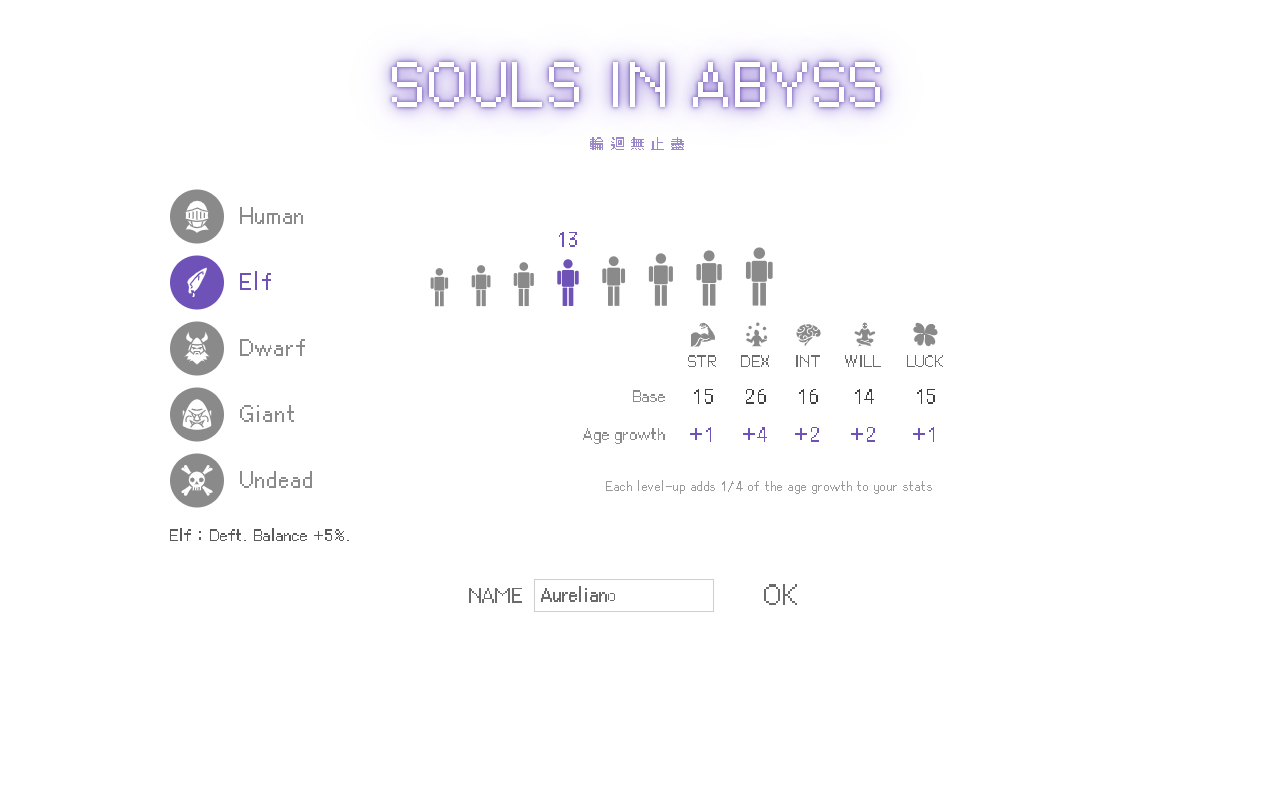
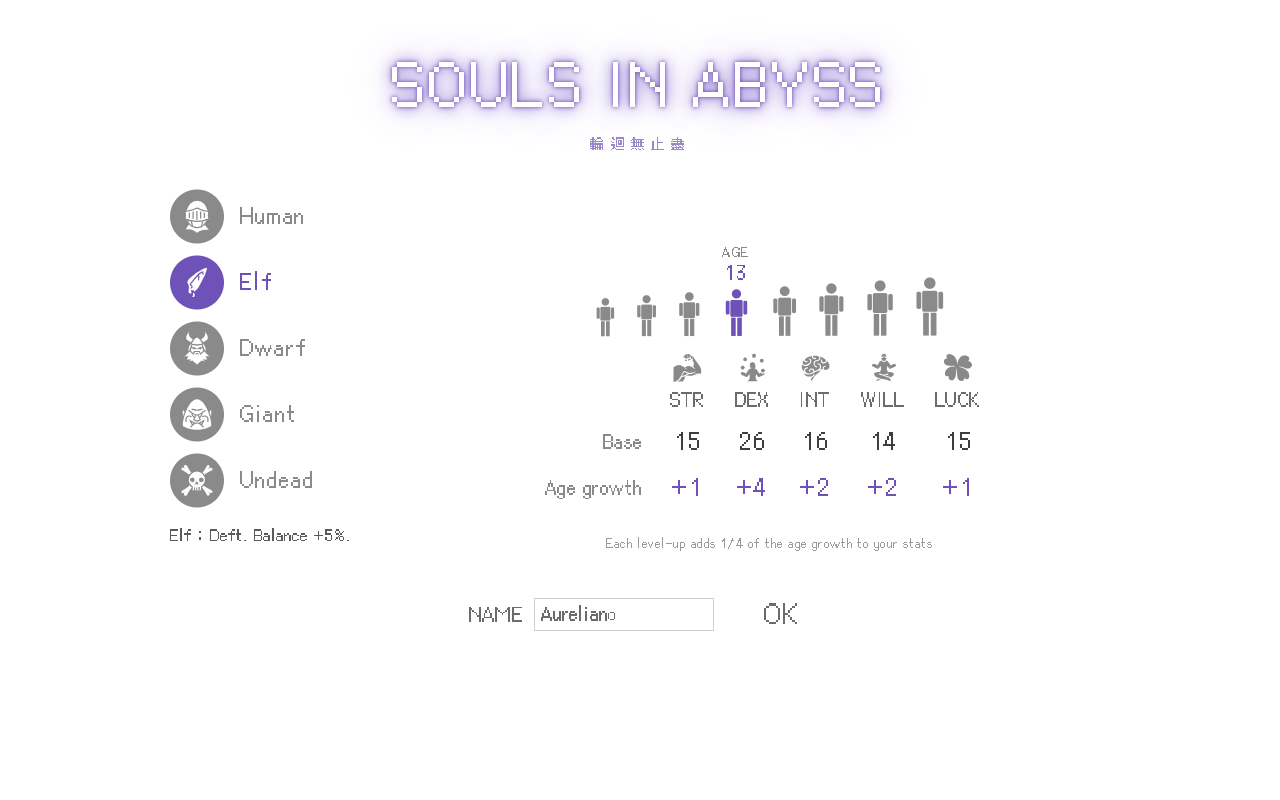
Souls in Abyss: wider, larger stat table; age label above the chosen figure
Claude-Session: https://claude.ai/code/session_01SWmRBBc1AVzcmCnX8pZTyt

diff --git a/site/souls-in-abyss/assets/index-8202bbc0.css b/site/souls-in-abyss/assets/index-8202bbc0.css
@@ -1,0 +1,1 @@
+@font-face{font-family:Cubic11;src:url(./Cubic_11-d28e9284.woff2) format("woff2");font-display:swap}:root{--bg: #e6e6e6;--box: #ffffff;--line: #cfcfcf;--ink: #555555;--lbl: #3e3e3e;--dim: #9a9a9a;--gold: #e8b33d;--accent: #6e52b8;--accent-soft: #f1ecfa;--glow1: #5b3fa8;--glow2: #8467cf;--glow3: #b6a3e6;--glow4: #e2daf6;--orange: #e8933d;--red: #a8322d;--blue: #2d6ea8;--up: #3fa34d;--down: #d43d3d;--warn: #e0791a;color-scheme:light}*{box-sizing:border-box}html,body{margin:0;height:100%;background:var(--bg);color:var(--ink);font:16px/1.5 Cubic11,PingFang TC,Noto Sans TC,sans-serif;-webkit-font-smoothing:none;font-smooth:never;text-rendering:optimizeSpeed}button,input,select{font:inherit;color:inherit}button{background:#f2f2f2;border:1px solid var(--line);padding:3px 10px;cursor:pointer;white-space:nowrap}button:hover:not(:disabled){background:var(--accent-soft);border-color:var(--accent)}button:disabled{opacity:.45;cursor:default}button.ghost{background:transparent}button.big{font-size:22px;padding:6px 26px}button.link{background:none;border:0;color:var(--ink);font-size:22px}button.link:hover{color:var(--accent);background:none}select,input{background:#fff;border:1px solid var(--line);padding:2px 6px}.dim{color:var(--dim)}.up{color:var(--up)}.down{color:var(--down)}.warn{color:var(--warn)}.small{font-size:13px}h3{margin:0 0 6px;font-weight:400;font-size:22px;color:var(--lbl)}small{font-size:13px}.game{display:grid;gap:8px;padding:8px;height:100vh;max-width:1400px;margin:0 auto;grid-template-columns:1.3fr .78fr .85fr;grid-template-rows:auto auto 1fr auto;grid-template-areas:"sheet monster side" "sheet pet     side" "log   att     side" "log   loot    side"}.box{background:var(--box);border:1px solid var(--line);padding:10px 14px;min-width:0;min-height:0}.sheet{grid-area:sheet;display:grid;grid-template-columns:1.15fr 1fr 1fr;gap:0 14px;align-content:start}.monster{grid-area:monster}.petbox{grid-area:pet}.log{grid-area:log}.att{grid-area:att;overflow-y:auto}.loot{grid-area:loot}.side{grid-area:side;display:flex;flex-direction:column;padding:8px 10px}.kv{display:flex;align-items:center;gap:10px;min-height:26px}.kv .lbl{color:var(--lbl);min-width:48px}.kv>span:last-child:not(.lbl){margin-left:auto}.col .kv>span:not(.lbl):not(.dim){margin-left:0}.col .kv .lbl{min-width:58px}.val.stat{color:var(--orange)}.val.boost{color:var(--up)}.line{flex:1;height:3px;background:#eee;position:relative}.line>div{height:100%;transition:width .12s linear}.line .red{background:var(--red)}.line .purple{background:#8e3fd1}.line .blue{background:var(--blue)}.line .grey{background:#9a9a9a}.mhead{margin-bottom:4px;white-space:nowrap;overflow:hidden;text-overflow:ellipsis}.mhead .lbl{color:var(--lbl);margin-right:6px}.mhead b{font-weight:400;margin-right:6px}.stage{margin:4px 0 6px}.scene{width:100%;display:block;image-rendering:pixelated;aspect-ratio:320 / 120}.petname{color:#c24f8c}.hearts{color:#e05a8a;letter-spacing:1px;font-size:13px}.log{overflow-y:auto;font-size:15px;line-height:1.55}.log p{margin:0}.log .ts{color:var(--dim);margin-right:2px}.log .num,.log .num.big{color:var(--down)}.log .num.crit{font-size:20px}.log .xp{color:var(--blue)}.log .gold{color:var(--gold)}.log .ap,.log .good,.log p.bad{color:var(--down)}.log .skill{color:#7a3dbf}.log .pet{color:#c24f8c}.log .title{color:var(--gold)}.log p.fate{color:#7a68b8}.log p.pet{color:#c24f8c}.loot .kv{min-height:22px}.loot .gold{color:var(--gold)}.loot .xp{color:var(--blue)}.nav{display:grid;grid-template-columns:repeat(8,1fr);gap:4px}.ico{border:0;background:none;padding:0;display:grid;place-items:center}.ico span{width:38px;height:38px;border-radius:50%;background:#6b6b6b;color:#fff;display:grid;place-items:center;font-size:17px}.ico.on span{background:var(--accent);box-shadow:0 0 0 3px #fff,0 0 0 4px var(--accent)}.ico:hover:not(.on) span{background:#8a8a8a}.ico:hover{background:none}.vtitle{font-size:22px;color:var(--lbl);margin:8px 2px 4px;border-bottom:1px solid var(--line)}.view{flex:1;overflow-y:auto;padding-right:4px}.item{display:flex;align-items:center;gap:10px;padding:7px 8px;margin:5px 0;border:1px solid #e3e3e3;background:#fafafa}.item.here{border-color:var(--accent);background:var(--accent-soft)}.item.faded{opacity:.55}.item .grow{flex:1;min-width:0}.item .acts{display:flex;align-items:center;gap:6px;flex-wrap:wrap;justify-content:flex-end}.iname{color:var(--lbl)}.iname .wt{display:inline-block;font-size:13px;padding:0 4px;margin-right:5px;background:#ececec;color:var(--ink)}.istat{font-size:13px;color:#777}.lore{margin:4px 0 0;font-size:13px;color:var(--dim)}.swatch{width:24px;height:24px;flex:none}.dot{width:24px;height:24px;border-radius:50%;flex:none;display:grid;place-items:center}.dot.q{background:#ddd;color:#fff}.row{display:flex;gap:8px;align-items:center;flex-wrap:wrap}.between{justify-content:space-between;margin:8px 0 2px}.doll{width:100%;max-width:260px;display:block;margin:0 auto}.doll .fig{fill:#7a7a7a}.doll .links line{stroke:#7a7a7a;stroke-width:1.5}.doll .joint{fill:#fff;stroke:#7a7a7a;stroke-width:1.5}.doll .slot{cursor:pointer}.doll .slot circle{fill:#7a7a7a;stroke-width:3}.doll .slot.full circle{fill:#5a5a5a}.doll .slot.on circle{fill:var(--accent)}.doll .slot text{fill:#fff;font:13px Cubic11,monospace;text-anchor:middle;pointer-events:none}.stabs{display:grid;grid-template-columns:repeat(3,1fr);border-bottom:1px solid var(--line)}.stab{border:0;background:none;font-size:17px;padding:4px 0;color:var(--lbl)}.stab.on{color:var(--blue);border:1px solid var(--line);border-bottom-color:#fff;margin-bottom:-1px;background:#fff}.skill{display:flex;align-items:center;gap:10px;padding:8px 10px;margin:4px 0;background:#6b6b6b;color:#fff}.skill.can{background:var(--accent)}.skill .sico{width:34px;height:34px;border-radius:50%;background:#fff;color:#6b6b6b;display:grid;place-items:center;flex:none}.skill.can .sico{color:var(--accent)}.skill .sname{font-size:18px}.skill .istat{color:#ffffffd9}.skill .up-btn{flex:none;background:#fff;color:#6b6b6b;border:0;border-radius:50%;width:34px;height:34px;padding:0;display:grid;place-items:center;line-height:1;font-size:13px}.skill .up-btn small{font-size:11px}.skill.can .up-btn{color:var(--accent)}.gi{width:100%;height:100%;fill:currentColor;display:block}.gi.sm{width:14px;height:14px;display:inline-block;vertical-align:-2px;margin-right:4px;opacity:.75}.ico span .gi{width:24px;height:24px}.title,.create{min-height:100vh;background:#fff;display:flex;flex-direction:column;align-items:center;padding:20px}.title{justify-content:center;gap:28px}.create{gap:18px;padding-top:24px}.banner{text-align:center;padding:18px 60px}.glow{margin:0;font-weight:400;font-size:clamp(44px,9vw,104px);line-height:1.5;color:#fff;letter-spacing:.03em;text-shadow:0 0 4px var(--glow1),0 0 14px var(--glow2),0 0 30px var(--glow3),0 0 60px var(--glow4)}.glow.cjk,.subtitle.cjk{line-height:1.25}.banner.small .glow{font-size:clamp(32px,5.5vw,60px)}.subtitle{color:#9a88c8;letter-spacing:.35em;margin-top:4px;font-size:18px;line-height:1.6}.banner.small .subtitle{font-size:14px}.intro{min-height:100vh;background:#fff;display:flex;flex-direction:column;align-items:center;justify-content:center;gap:18px;cursor:pointer;outline:none;animation:introOut 1.2s ease-in 4.6s forwards}.introline{margin:0;font-size:clamp(20px,3.2vw,30px);color:#5a4f78;letter-spacing:.12em;text-align:center;opacity:0;animation:introIn 1.4s ease-out var(--d) forwards}@keyframes introIn{0%{opacity:0;transform:translateY(6px)}to{opacity:1;transform:none}}@keyframes introOut{to{opacity:0}}@media (prefers-reduced-motion: reduce){.introline{animation-duration:.01s}.intro{animation-delay:2.5s;animation-duration:.3s}}button.play{font-size:28px;color:#6b6b6b;letter-spacing:.04em}button.play:hover{color:var(--accent)}.picker{display:grid;grid-template-columns:220px 1fr;gap:40px;width:100%;max-width:940px;align-items:start}.rlist{display:flex;flex-direction:column;gap:12px}.rrow{display:flex;align-items:center;gap:16px;background:none;border:0;padding:0;font-size:22px;text-align:left;color:#8a8a8a}.rrow .rico{width:54px;height:54px;border-radius:50%;background:#8a8a8a;color:#fff;padding:10px;flex:none;transition:background .15s}.rrow .rname{letter-spacing:.04em}.rrow.on{color:var(--accent)}.rrow.on .rico{background:var(--accent)}.rrow:hover:not(:disabled),.rrow:focus-visible{background:none;border:0}.rrow:hover:not(.on) .rico{background:#6b6b6b}.rinfo{color:#6b6b6b;display:flex;flex-direction:column;gap:10px}.figs{display:flex;align-items:flex-end;justify-content:center;gap:22px;height:148px}.fig{position:relative;padding:0;border:0;background:none;display:flex;flex-direction:column;align-items:center;gap:4px}.fig .agev{font-size:20px;color:var(--accent);min-height:52px;display:flex;flex-direction:column;align-items:center;justify-content:flex-end;line-height:1.2}.fig .agev small{font-size:13px;color:#8a8a8a;letter-spacing:.08em}.fig .pict{fill:#8a8a8a;display:block;transition:fill .15s}.fig.on .pict{fill:var(--accent)}.fig:hover:not(:disabled),.fig:focus-visible{background:none;border:0}.fig:hover:not(.on) .pict{fill:#6b6b6b}.sttable{border-collapse:collapse;font-size:24px;width:auto;margin:0 auto}.sttable th,.sttable td{padding:5px 15px;text-align:center;font-weight:400}.sttable thead th{color:#6b6b6b;font-size:19px}.sttable thead .gi.sm{display:block;width:30px;height:30px;margin:0 auto 3px;opacity:.8}.sttable tbody th{text-align:right;color:#8a8a8a;font-size:19px;padding:5px 12px 5px 0;white-space:nowrap}.sttable td{color:#3e3e3e;font-variant-numeric:tabular-nums}.sttable td.plus{color:var(--accent)}.center{text-align:center}.rcol{display:flex;flex-direction:column;gap:16px;min-width:0}.rdesc{margin:0;color:#5a5a5a}.cfoot{display:flex;align-items:center;gap:40px;margin-top:6px}.namebox{display:flex;align-items:center;gap:10px;color:#6b6b6b;font-size:20px}.namebox input{width:180px;font-size:18px}@media (max-width: 900px){html,body{font-size:15px}.game{height:auto;grid-template-columns:1fr 1fr;grid-template-areas:"sheet sheet" "monster monster" "pet pet" "side side" "log log" "att loot"}.sheet{grid-template-columns:1fr 1fr}.sheet .col:last-child{grid-column:1 / -1;display:grid;grid-template-columns:1fr 1fr;gap:0 14px}.side{min-height:70vh}.log{height:240px}.nav{grid-template-columns:repeat(8,1fr)}.ico span{width:34px;height:34px;font-size:15px}.picker{grid-template-columns:1fr;gap:16px}.rlist{flex-direction:row;justify-content:center;gap:10px}.rrow .rname{display:none}.rrow .rico{width:48px;height:48px}.rdesc{text-align:center}.figs{gap:12px;justify-content:center}.sttable{font-size:18px}.sttable th,.sttable td{padding:5px 8px}.sttable tbody th{padding-right:7px}.sttable thead th,.sttable tbody th{font-size:15px}.sttable thead .gi.sm{width:22px;height:22px}.banner{padding:10px}.cfoot{flex-direction:column;gap:14px}}.santier{font-size:13px;white-space:nowrap}.gift{color:#2e8b57}.curse,.madtxt{color:#8e3fd1}.pactline{font-size:13px}.log p.mad{color:#8e3fd1;letter-spacing:.04em}.log .gift{color:#2e8b57}.log .curse{color:#8e3fd1}.pacts{display:grid;grid-template-columns:1fr;gap:8px}.pact{text-align:left;white-space:normal;display:flex;flex-direction:column;gap:2px;padding:8px 10px;background:#fafafa}.pact.on{border-color:var(--accent);background:var(--accent-soft);box-shadow:0 0 0 1px var(--accent)}.pact small{color:#777}.pact em{font-style:normal;font-size:13px;color:var(--dim);margin-bottom:4px}.pact.refuse{color:var(--dim);align-items:center}

diff --git a/souls-in-abyss/src/style.css b/souls-in-abyss/src/style.css
@@ -151,17 +151,18 @@ button.play:hover { color: var(--accent); }
 .rrow.on { color: var(--accent); } .rrow.on .rico { background: var(--accent); }
 .rrow:hover:not(:disabled), .rrow:focus-visible { background: none; border: 0; } .rrow:hover:not(.on) .rico { background: #6b6b6b; }
 .rinfo { color: #6b6b6b; display: flex; flex-direction: column; gap: 10px; }
-.figs { display: flex; align-items: flex-end; gap: 22px; height: 118px; }
+.figs { display: flex; align-items: flex-end; justify-content: center; gap: 22px; height: 148px; }
 .fig { position: relative; padding: 0; border: 0; background: none; display: flex; flex-direction: column; align-items: center; gap: 4px; }
-.fig .agev { font-size: 20px; color: var(--accent); min-height: 26px; }
+.fig .agev { font-size: 20px; color: var(--accent); min-height: 52px; display: flex; flex-direction: column; align-items: center; justify-content: flex-end; line-height: 1.2; }
+.fig .agev small { font-size: 13px; color: #8a8a8a; letter-spacing: .08em; }
 .fig .pict { fill: #8a8a8a; display: block; transition: fill .15s; }
 .fig.on .pict { fill: var(--accent); }
 .fig:hover:not(:disabled), .fig:focus-visible { background: none; border: 0; } .fig:hover:not(.on) .pict { fill: #6b6b6b; }
-.sttable { border-collapse: collapse; font-size: 20px; width: auto; margin: 0 auto; }
-.sttable th, .sttable td { padding: 4px 12px; text-align: center; font-weight: normal; }
-.sttable thead th { color: #6b6b6b; font-size: 16px; }
-.sttable thead .gi.sm { display: block; width: 26px; height: 26px; margin: 0 auto 2px; opacity: .8; }
-.sttable tbody th { text-align: right; color: #8a8a8a; font-size: 16px; padding: 4px 10px 4px 0; white-space: nowrap; }
+.sttable { border-collapse: collapse; font-size: 24px; width: auto; margin: 0 auto; }
+.sttable th, .sttable td { padding: 5px 15px; text-align: center; font-weight: normal; }
+.sttable thead th { color: #6b6b6b; font-size: 19px; }
+.sttable thead .gi.sm { display: block; width: 30px; height: 30px; margin: 0 auto 3px; opacity: .8; }
+.sttable tbody th { text-align: right; color: #8a8a8a; font-size: 19px; padding: 5px 12px 5px 0; white-space: nowrap; }
 .sttable td { color: #3e3e3e; font-variant-numeric: tabular-nums; }
 .sttable td.plus { color: var(--accent); }
 .center { text-align: center; } .rcol { display: flex; flex-direction: column; gap: 16px; min-width: 0; } .rdesc { margin: 0; color: #5a5a5a; }
@@ -186,10 +187,10 @@ button.play:hover { color: var(--accent); }
   .rrow .rico { width: 48px; height: 48px; }
   .rdesc { text-align: center; }
   .figs { gap: 12px; justify-content: center; }
-  .sttable { font-size: 15px; }
-  .sttable th, .sttable td { padding: 4px 7px; }
-  .sttable tbody th { padding-right: 6px; }
-  .sttable thead th { font-size: 13px; } .sttable tbody th { font-size: 13px; }
+  .sttable { font-size: 18px; }
+  .sttable th, .sttable td { padding: 5px 8px; }
+  .sttable tbody th { padding-right: 7px; }
+  .sttable thead th { font-size: 15px; } .sttable tbody th { font-size: 15px; }
   .sttable thead .gi.sm { width: 22px; height: 22px; }
   .banner { padding: 10px; }
   .cfoot { flex-direction: column; gap: 14px; }

diff --git a/site/souls-in-abyss/assets/index-e11d7109.js b/site/souls-in-abyss/assets/index-e11d7109.js
@@ -78,7 +78,7 @@
   <circle cx="15" cy="7" r="6"/><rect x="7" y="15" width="16" height="22" rx="2"/><rect x="1" y="16" width="5" height="18" rx="2"/>
   <rect x="24" y="16" width="5" height="18" rx="2"/><rect x="8" y="38" width="6" height="24" rx="1"/><rect x="16" y="38" width="6" height="24" rx="1"/></svg>`;function r1(t,e,s,n){const a=F(t),i=me(a,e),o=de.map(d=>`<button class="rrow ${d.key===t?"on":""}" data-a="${s}" data-k="${d.key}" title="${m(d.name)}" aria-pressed="${d.key===t}">
       <span class="rico">${ne(d.key)}</span><span class="rname">${m(d.name)}</span></button>`).join(""),l=u1.map(d=>`<button class="fig ${d===e?"on":""}" data-a="${n}" data-k="${d}" title="${c("age")} ${d}" aria-pressed="${d===e}">
-      <span class="agev">${d===e?d:""}</span>${yt(40+(d-10)*3)}</button>`).join(""),h=E.map(d=>`<th>${ne(d,"gi sm")}${m(ae[d])}</th>`).join(""),r=(d,u)=>E.map(k=>`<td class="${u?"plus":""}">${u?"+":""}${d[k]}</td>`).join("");return`<div class="picker"><div class="rcol"><div class="rlist">${o}</div><p class="rdesc">${m(a.name)}：${m(a.desc)}</p></div><div class="rinfo">
+      <span class="agev">${d===e?`<small>${c("age")}</small>${d}`:""}</span>${yt(40+(d-10)*3)}</button>`).join(""),h=E.map(d=>`<th>${ne(d,"gi sm")}${m(ae[d])}</th>`).join(""),r=(d,u)=>E.map(k=>`<td class="${u?"plus":""}">${u?"+":""}${d[k]}</td>`).join("");return`<div class="picker"><div class="rcol"><div class="rlist">${o}</div><p class="rdesc">${m(a.name)}：${m(a.desc)}</p></div><div class="rinfo">
       <div class="figs">${l}</div>
       <table class="sttable"><thead><tr><th></th>${h}</tr></thead>
         <tbody><tr><th>${c("initStat")}</th>${r(a.base,!1)}</tr><tr><th>${c("ageGrowth")}</th>${r(i,!0)}</tr></tbody></table>

diff --git a/souls-in-abyss/src/ui/app.ts b/souls-in-abyss/src/ui/app.ts
@@ -424,7 +424,7 @@ export function raceAgePicker(race: string, age: number, raceAction: string, age
   const list = RACES.map(x => `<button class="rrow ${x.key === race ? 'on' : ''}" data-a="${raceAction}" data-k="${x.key}" title="${tr(x.name)}" aria-pressed="${x.key === race}">
       <span class="rico">${icon(x.key)}</span><span class="rname">${tr(x.name)}</span></button>`).join('');
   const figs = START_AGES.map(a => `<button class="fig ${a === age ? 'on' : ''}" data-a="${ageAction}" data-k="${a}" title="${t('age')} ${a}" aria-pressed="${a === age}">
-      <span class="agev">${a === age ? a : ''}</span>${figure(40 + (a - 10) * 3)}</button>`).join('');
+      <span class="agev">${a === age ? `<small>${t('age')}</small>${a}` : ''}</span>${figure(40 + (a - 10) * 3)}</button>`).join('');
   const head = PRIMARY.map(k => `<th>${icon(k, 'gi sm')}${tr(STAT[k])}</th>`).join('');
   const row = (o: Record<string, number>, plus: boolean) => PRIMARY.map(k => `<td class="${plus ? 'plus' : ''}">${plus ? '+' : ''}${o[k]}</td>`).join('');
   return `<div class="picker"><div class="rcol"><div class="rlist">${list}</div><p class="rdesc">${tr(r.name)}：${tr(r.desc)}</p></div><div class="rinfo">

diff --git a/site/souls-in-abyss/index.html b/site/souls-in-abyss/index.html
@@ -6,8 +6,8 @@
   <title>Souls in Abyss</title>
   <meta name="description" content="An endless auto-battle RPG. Beneath the world lies the Abyss; every soul falls in, except yours. Gear up, train skills, befriend pals, sink and return." />
   <link rel="icon" href="./favicon.svg" type="image/svg+xml" />
-  <script type="module" crossorigin src="./assets/index-5a1f2640.js"></script>
-  <link rel="stylesheet" href="./assets/index-4336b44c.css">
+  <script type="module" crossorigin src="./assets/index-e11d7109.js"></script>
+  <link rel="stylesheet" href="./assets/index-8202bbc0.css">
 </head>
 <body>
   <div id="app"></div>

diff --git a/souls-in-abyss/tests/smoke.spec.ts b/souls-in-abyss/tests/smoke.spec.ts
@@ -17,7 +17,7 @@ test('title, create a hero, fight, and open every view', async ({ page }, info) 
   await page.click('[data-a="cRace"][data-k="elf"]');
   await page.click('[data-a="cAge"][data-k="13"]');
   await expect(page.locator('.sttable tbody tr').nth(1).locator('td').nth(1)).toHaveText('+4');
-  await expect(page.locator('.fig.on .agev')).toHaveText('13');
+  await expect(page.locator('.fig.on .agev')).toHaveText('年齡13');
   await page.screenshot({ path: `${SHOTS}/${info.project.name}-create.png` });
   await page.click('#c-go');
   await expect(page.locator('#sheet')).toContainText('精靈');
